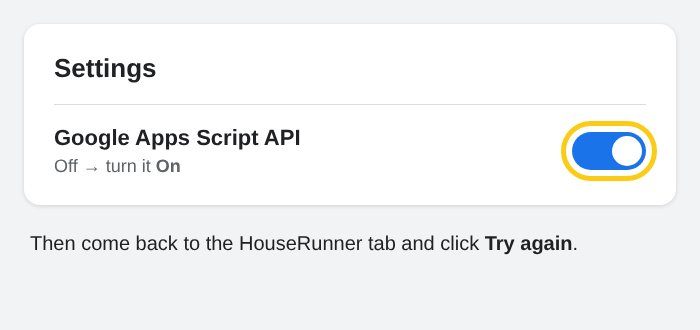
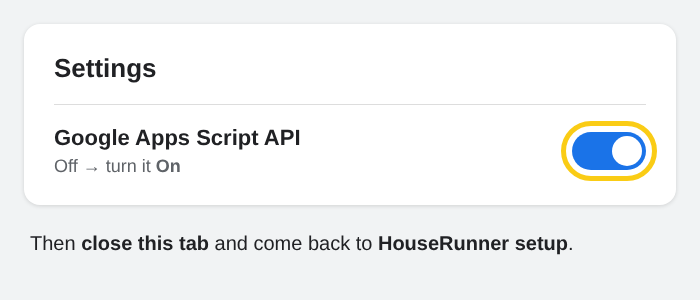
2026.11.333: clearer Apps Script API switch step
Claude-Session: https://claude.ai/code/session_01R2kV4GW3UVFR51NzUKtdLQ

diff --git a/setup/guide/auto.js b/setup/guide/auto.js
@@ -204,11 +204,20 @@
     }
     function askSwitch() {
         stage('api'); S.needSwitch = true; save();
-        draw('<div class="card big"><h3>One switch to turn on first</h3><p>Google only lets HouseRunner make your script once you’ve switched on <b>Google Apps Script API</b> in your own Apps Script settings – just once, for this Google account.</p>' +
-            '<ol><li>Click <b>Open my Apps Script settings</b> – they open in a new tab.</li><li>Click <b>Google Apps Script API</b> and switch it <b>On</b>.</li><li>Come back to this tab – it carries on by itself as soon as the switch is on.</li></ol>' +
-            '<div class="row"><button class="btn" id="setGo">Open my Apps Script settings</button><span class="mute" id="setMsg">⏳ Waiting for the switch…</span></div></div>');
+        draw('<div class="card big"><h3>⚙ One switch to turn on first</h3>' +
+            '<p>Google only lets HouseRunner make your script once you’ve switched on <b>Google Apps Script API</b> in your own Apps Script settings. It’s a one-off for this Google account.</p>' +
+            '<div class="note warn" style="margin:12px 0"><b>The next button opens your Apps Script settings in a new tab.</b> In that tab:<ol style="margin:6px 0 0">' +
+            '<li>Click <b>Google Apps Script API</b>.</li><li>Click the switch so it turns <b>On</b> (blue).</li><li><b>Close that tab</b> (click its ✕) and <b>come back to this “HouseRunner setup” tab</b>.</li></ol></div>' +
+            '<img src="../../shared/brand/steps/i-apiswitch.png?v=333" alt="" style="max-width:420px;width:100%;border-radius:10px;border:1px solid var(--line);display:block;margin:0 0 12px">' +
+            '<div class="row"><button class="btn" id="setGo">Open my Apps Script settings (new tab)</button><span class="mute" id="setMsg"></span></div>' +
+            '<p class="mute small">This page watches for the switch and carries on by itself as soon as it’s on.</p></div>');
         var b = document.getElementById('setGo');
-        if (b) b.onclick = function () { setWin = window.open('https://script.google.com/home/usersettings', 'hrsettings'); };
+        if (b) b.onclick = function () {
+            setWin = window.open('https://script.google.com/home/usersettings', 'hrsettings');
+            var m = document.getElementById('setMsg');
+            if (m) m.innerHTML = setWin ? '⏳ Opened in a new tab – switch it <b>On</b>, close that tab, and come back here.' : 'Your browser blocked the new tab – allow pop-ups for houserunner.app, then click again.';
+        };
+        var t0 = document.title;
         clearTimeout(setT);
         (function watch() {
             setT = setTimeout(function () {
@@ -218,7 +227,10 @@
                     S.needSwitch = false; save();
                     try { if (setWin && !setWin.closed) setWin.close(); } catch (e) { /* the browser may not allow it */ }
                     try { window.focus(); } catch (e) { /* fine */ }
-                    draw('<div class="note ok">✅ <b>Switched on.</b> ' + (setWin && !setWin.closed ? 'You can close the Apps Script settings tab. ' : '') + 'Making your Sheet now…</div>');
+                    var still = setWin && !setWin.closed;
+                    if (still) document.title = '✅ Done – come back to HouseRunner';
+                    setTimeout(function () { document.title = t0; }, 20000);
+                    draw('<div class="note ok">✅ <b>Apps Script API is switched on – thank you.</b> ' + (still ? 'If the Apps Script settings tab is still open, close it. ' : '') + 'Making your Sheet now…</div>');
                     build().catch(fail);
                 });
             }, 3000);

diff --git a/setup/guide/guide.html b/setup/guide/guide.html
@@ -33,7 +33,7 @@ button:disabled{opacity:.4;cursor:default}
  * during approval, and a floating window would close with it. It follows along by itself – auto.js writes where it is up
  * to (localStorage "hrinstall.stage") – and "Done – next step" moves it on by hand where it can't tell. */
 (function () {
-    var V = '../../shared/brand/steps/', REV = '332';
+    var V = '../../shared/brand/steps/', REV = '333';
     var HR = '<img src="' + V + 't-hr.png" alt="">';
     var WHERE = { setup: [HR, 'In the <b>HouseRunner setup</b> tab'], popup: ['🔐', 'In <b>Google’s window</b>'], settings: ['⚙', 'In the <b>Apps Script settings</b> tab'], google: ['🔐', 'Google, in the HouseRunner setup tab'] };
     // [stage it belongs to, where, what to click, help, picture]
@@ -41,7 +41,7 @@ button:disabled{opacity:.4;cursor:default}
         ['start', 'setup', 'Click <b>Sign in with Google</b>', 'Use the Google account you want the dashboard in – ideally the one with your family calendar.', 'i-signin.png'],
         ['signin', 'popup', 'Choose your account, then click <b>Advanced</b> → <b>Go to HouseRunner Installer (unsafe)</b>', 'Google says it hasn’t verified the app yet – that’s expected. The installer only makes <b>one new Sheet</b> and its script; it can’t see your other files. <span class="mute">No warning? Skip to the next step.</span>', 'p-advanced.png'],
         ['signin', 'popup', 'Tick <b>Select all</b>, then click <b>Continue</b>', 'All three are needed: make one Sheet, make its script, and publish it. Google’s window then closes.', 'p-selectall.png'],
-        ['api', 'settings', 'Only if asked: switch on <b>Google Apps Script API</b>', 'HouseRunner shows a link to your Apps Script settings. Click <b>Google Apps Script API</b>, switch it <b>On</b>, close that tab, then click <b>Try again</b> in HouseRunner setup. <span class="mute">Not asked? Skip this step.</span>', 'i-apiswitch.png'],
+        ['api', 'settings', 'Only if asked: switch on <b>Google Apps Script API</b>', 'In HouseRunner setup click <b>Open my Apps Script settings</b> (a new tab). There: click <b>Google Apps Script API</b>, switch it <b>On</b>, <b>close that tab</b> and come back – setup carries on by itself. <span class="mute">Not asked? This step is skipped.</span>', 'i-apiswitch.png'],
         ['making', 'setup', '⏳ Wait – HouseRunner is making your Sheet', '<span class="wait">⏳ About 30 seconds. The list ticks itself off – don’t close the tab.</span>', 'i-making.png'],
         ['approve', 'setup', 'Click <b>Approve HouseRunner App</b>', 'Now Google asks you to approve what your HouseRunner does: your calendar, sending your setup emails and so on. The setup page explains each one.', 'i-approve.png'],
         ['google2', 'popup', 'Choose your account, then click <b>Advanced</b> → <b>Go to HouseRunner App (unsafe)</b>', 'Google says it hasn’t verified this app: that’s normal – it’s your own private copy, and the “developer” it names is you.', 'p-advanced.png'],

diff --git a/index.html b/index.html
@@ -24,11 +24,11 @@
         window.FD_DESK = true; window.FD_PHONE = !!phone;
     })();
     </script>
-    <link rel="stylesheet" href="shared/base.css?v=202611332">
-    <link rel="stylesheet" href="admin/admin.css?v=202611332">
-    <link rel="stylesheet" href="setup/desk.css?v=202611332">
-    <link rel="stylesheet" href="setup/editor.css?v=202611332">
-    <link rel="stylesheet" href="admin/phone.css?v=202611332">
+    <link rel="stylesheet" href="shared/base.css?v=202611333">
+    <link rel="stylesheet" href="admin/admin.css?v=202611333">
+    <link rel="stylesheet" href="setup/desk.css?v=202611333">
+    <link rel="stylesheet" href="setup/editor.css?v=202611333">
+    <link rel="stylesheet" href="admin/phone.css?v=202611333">
     <style>
 #landing { min-height: 100vh; }
 #landing .ld-wrap { max-width: 1100px; margin: 0 auto; padding: 30px 18px 50px; }
@@ -206,20 +206,20 @@
     </div></div>
     <!-- Connected: houserunner.app (computer) or Family Admin (phone) – the same app. -->
     <div id="app"></div>
-    <script src="shared/storecheck.js?v=202611332"></script>
-    <script src="shared/fd.js?v=202611332"></script>
-    <script src="dashboard/scripts/platform.js?v=202611332"></script>
-    <script src="shared/pair.js?v=202611332"></script>
-    <script src="shared/qrcode.js?v=202611332"></script>
-    <script src="shared/privacy.js?v=202611332"></script>
-    <script src="shared/countries.js?v=202611332"></script>
-    <script src="setup/config.js?v=202611332"></script>
-    <script src="help/topics.js?v=202611332"></script>
-    <script src="setup/editor.js?v=202611332"></script>
-    <script src="setup/calsetup.js?v=202611332"></script>
-    <script src="shared/icons.js?v=202611332"></script>
+    <script src="shared/storecheck.js?v=202611333"></script>
+    <script src="shared/fd.js?v=202611333"></script>
+    <script src="dashboard/scripts/platform.js?v=202611333"></script>
+    <script src="shared/pair.js?v=202611333"></script>
+    <script src="shared/qrcode.js?v=202611333"></script>
+    <script src="shared/privacy.js?v=202611333"></script>
+    <script src="shared/countries.js?v=202611333"></script>
+    <script src="setup/config.js?v=202611333"></script>
+    <script src="help/topics.js?v=202611333"></script>
+    <script src="setup/editor.js?v=202611333"></script>
+    <script src="setup/calsetup.js?v=202611333"></script>
+    <script src="shared/icons.js?v=202611333"></script>
     <!-- A phone gets Family Admin, written for the phone; a computer houserunner.app. -->
-    <script>document.write('<script src="admin/' + (window.FD_PHONE ? 'phone' : 'app') + '.js?v=202611332"><\/script>');</script>
+    <script>document.write('<script src="admin/' + (window.FD_PHONE ? 'phone' : 'app') + '.js?v=202611333"><\/script>');</script>
 <script>
  (function () {
    'use strict';

diff --git a/setup/guide/index.html b/setup/guide/index.html
@@ -6,8 +6,8 @@
     <title>HouseRunner setup</title>
     <meta name="theme-color" content="#0c0e12">
     <link rel="icon" href="../../shared/brand/icon-192.png"><link rel="apple-touch-icon" href="../../shared/brand/apple-touch-icon.png">
-    <link rel="stylesheet" href="../editor.css?v=202611332">
-    <link rel="stylesheet" href="setup.css?v=202611332">
+    <link rel="stylesheet" href="../editor.css?v=202611333">
+    <link rel="stylesheet" href="setup.css?v=202611333">
 </head>
 <body>
     <header class="cfg-top"><a class="cfg-title hr-title" href="../../"><img src="../../shared/brand/mark.svg" alt="" class="hr-mini"><span>House<span class="hr-acc">Runner</span></span></a><a class="cfg-dash" href="../../dashboard/" target="_blank" rel="noopener">▶ Dashboard</a><a class="cfg-help" href="../../help/" target="_blank" rel="noopener">❓ Help</a></header>
@@ -29,11 +29,11 @@
     <script src="../../shared/countries.js"></script>
     <script src="../../shared/pair.js"></script>
     <script src="../../shared/qrcode.js"></script>
-    <script src="../calsetup.js?v=202611332"></script>
-    <script src="../../shared/storecheck.js?v=202611332"></script>
+    <script src="../calsetup.js?v=202611333"></script>
+    <script src="../../shared/storecheck.js?v=202611333"></script>
     <script src="https://accounts.google.com/gsi/client" async defer></script>
-    <script src="auto.js?v=202611332"></script>
-    <script src="float.js?v=202611332"></script>
-    <script src="setup.js?v=202611332"></script>
+    <script src="auto.js?v=202611333"></script>
+    <script src="float.js?v=202611333"></script>
+    <script src="setup.js?v=202611333"></script>
 </body>
 </html>

diff --git a/sw.js b/sw.js
@@ -1,6 +1,6 @@
 /* Keeps houserunner.app (the Configurator / Family Admin) available offline. Family data always comes live from Google.
  * The screen, the Family Calendar app and the licence pages look after themselves, so they're left alone here. */
-const CACHE = 'root-v187';
+const CACHE = 'root-v188';
 const FILES = ["./", "index.html", "manifest.webmanifest", "admin/app.js", "admin/phone.js", "admin/phone.css", "admin/admin.css", "admin/icons/icon-192.png", "setup/desk.css", "setup/editor.css", "setup/editor.js", "setup/calsetup.js", "setup/config.js",
   "help/topics.js", "shared/fd.js", "shared/head.js", "shared/storecheck.js", "shared/move.js", "shared/busy.js", "shared/base.css", "shared/brand/mark.svg", "shared/privacy.js", "shared/countries.js", "shared/icons.js", "shared/pair.js", "shared/qrcode.js"];
 const OWN = /^\/(screen|dashboard|calendar|licencing|windows|downloads|Scripts)\//;

diff --git a/admin/sw.js b/admin/sw.js
@@ -1,5 +1,5 @@
 /* Keeps the app itself available offline. Calendar and points data always come live from Google. */
-const CACHE = 'admin-v336';
+const CACHE = 'admin-v337';
 const FILES = ["./", "index.html", "app.js", "admin.css", "manifest.webmanifest", "icons/icon-192.png", "../shared/fd.js", "../shared/storecheck.js", "../shared/move.js", "../shared/base.css", "../shared/brand/symbol.svg", "../shared/privacy.js", "../shared/countries.js", "../shared/pair.js", "../shared/qrcode.js"];
 self.addEventListener('install', e => { e.waitUntil(caches.open(CACHE).then(c => c.addAll(FILES)).then(() => self.skipWaiting())); });
 self.addEventListener('activate', e => { e.waitUntil(caches.keys().then(ks => Promise.all(ks.filter(k => k.startsWith('admin-') && k !== CACHE).map(k => caches.delete(k)))).then(() => self.clients.claim())); });

diff --git a/calendar/sw.js b/calendar/sw.js
@@ -1,5 +1,5 @@
 /* Keeps the app itself available offline. Calendar and points data always come live from Google. */
-const CACHE = 'calendar-v324';
+const CACHE = 'calendar-v325';
 const FILES = ["./", "index.html", "app.js", "calendar.css", "manifest.webmanifest", "icons/icon-192.png", "../shared/fd.js", "../shared/storecheck.js", "../shared/move.js", "../shared/base.css", "../shared/brand/symbol.svg", "../shared/pair.js", "../shared/qrcode.js"];
 self.addEventListener('install', e => { e.waitUntil(caches.open(CACHE).then(c => c.addAll(FILES)).then(() => self.skipWaiting())); });
 self.addEventListener('activate', e => { e.waitUntil(caches.keys().then(ks => Promise.all(ks.filter(k => k.startsWith('calendar-') && k !== CACHE).map(k => caches.delete(k)))).then(() => self.clients.claim())); });

diff --git a/shared/fd.js b/shared/fd.js
@@ -191,7 +191,7 @@
         clearConfig: function () { cfg = {}; try { localStorage.removeItem(KEY); } catch (e) { /* ignore */ } },
         parseSetup: parseSetup,
 
-        VERSION: '2026.11.332',     // the phone apps' version (same number as the screen's)
+        VERSION: '2026.11.333',     // the phone apps' version (same number as the screen's)
         get: function (action, params, timeout) {
             var q = 'action=' + encodeURIComponent(action) + '&code=' + encodeURIComponent(cfg.code) + '&t=' + Date.now();
             Object.keys(params || {}).forEach(function (k) { q += '&' + k + '=' + encodeURIComponent(params[k]); });

diff --git a/dashboard/scripts/notices.js b/dashboard/scripts/notices.js
@@ -6,7 +6,7 @@
  */
 (function () {
     'use strict';
-    var APP_VERSION = '2026.11.332';
+    var APP_VERSION = '2026.11.333';
     var SNOOZE_KEY = 'familyDashboard.updateSnooze', SCRIPT_KEY = 'familyDashboard.scriptNag';
     var latest = null, lastLayout = null, privacyOpen = false, lastTouch = Date.now(), updating = false;
     var IDLE_MS = 3 * 60000;
